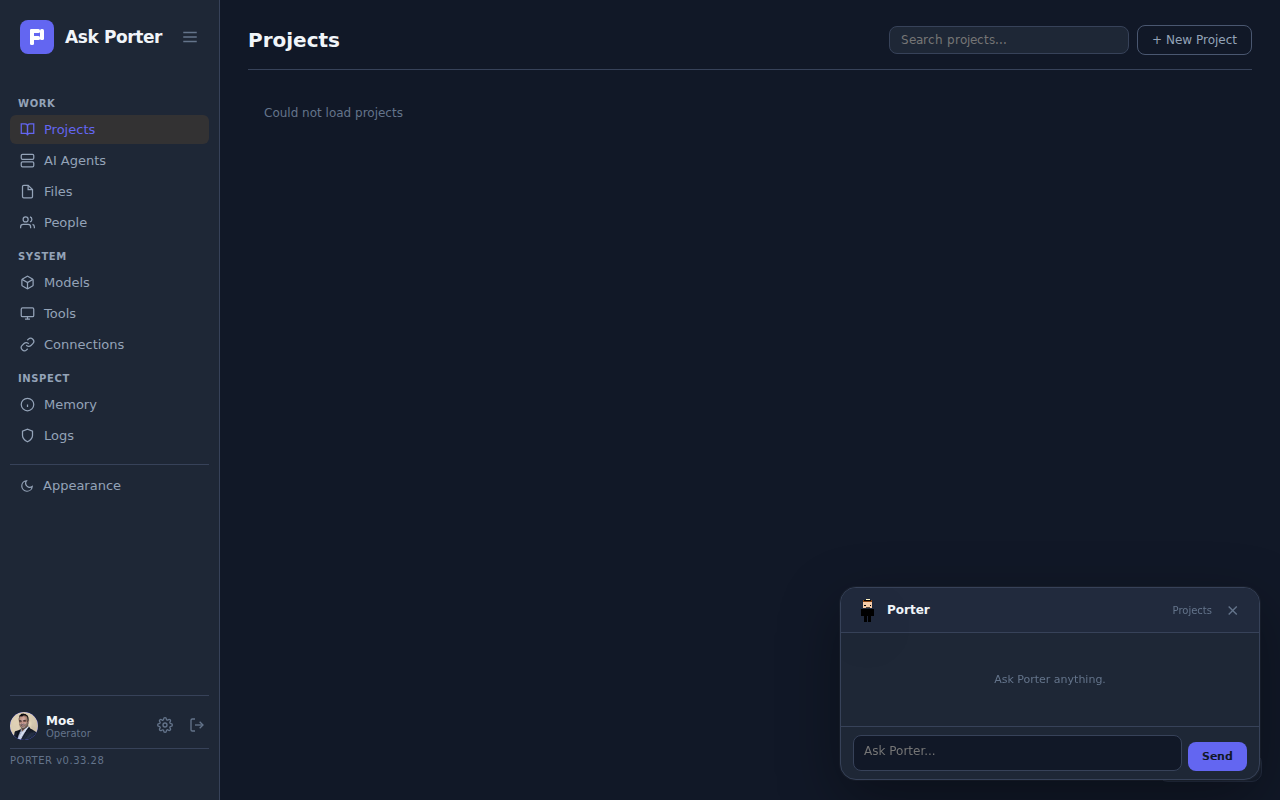
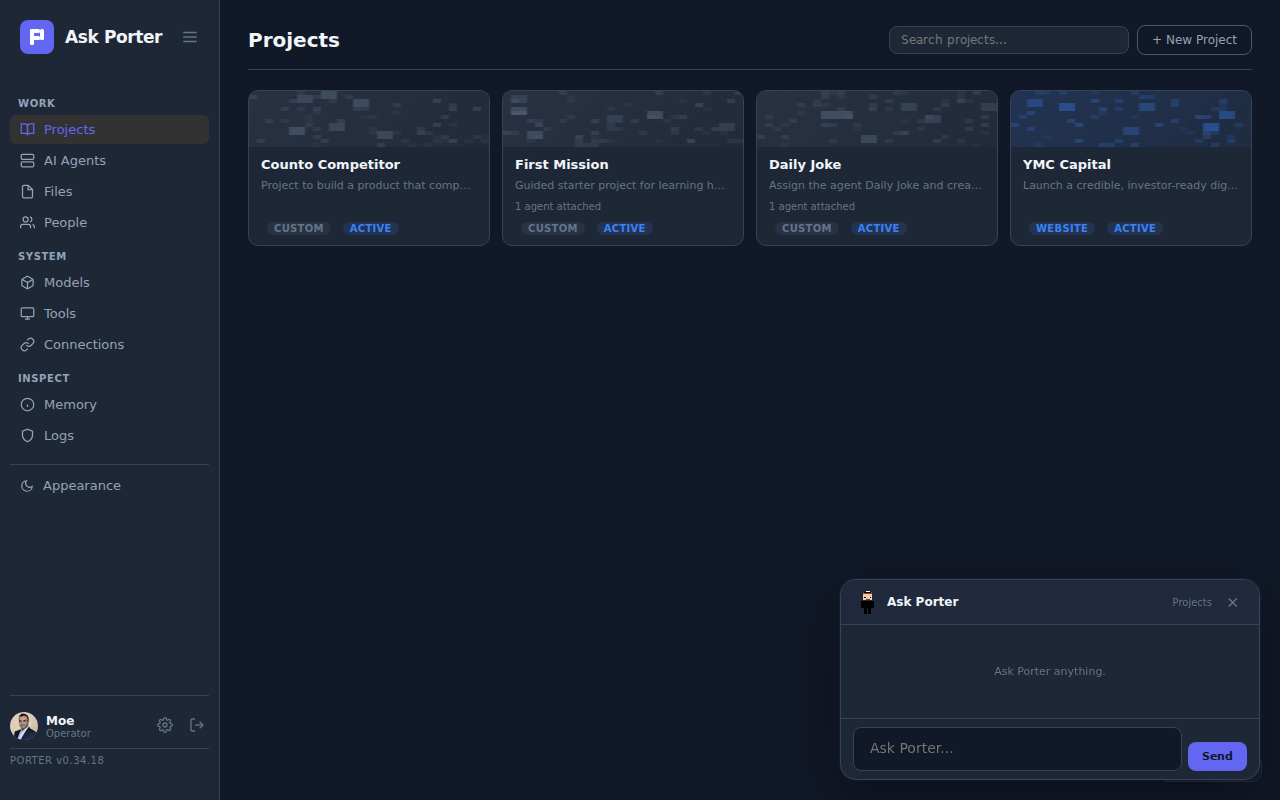
docs(03-01): complete lean system prompts plan - PERF-01 done
- Created 03-01-SUMMARY.md: token reduction 87%, all 35 Playwright tests pass
- STATE.md: progress updated to 86%, decision and metric recorded
- ROADMAP.md: Phase 3 progress updated (2 of 5 plans complete)
- REQUIREMENTS.md: PERF-01 marked complete

diff --git a/.planning/phases/03-route-migration/03-01-SUMMARY.md b/.planning/phases/03-route-migration/03-01-SUMMARY.md
@@ -1,0 +1,101 @@
+---
+phase: 03-route-migration
+plan: 01
+subsystem: system-prompt
+tags: [perf, system-prompt, dispatch, memory, agents]
+dependency_graph:
+  requires: []
+  provides: [_build_lean_identity, lean-system-prompts, PERF-01]
+  affects: [agent-dispatch, memory-injection, system-prompt-assembly]
+tech_stack:
+  added: []
+  patterns: [lean-identity-pattern, circuit-breaker-logging, on-demand-context-injection]
+key_files:
+  modified:
+    - porter.py
+decisions:
+  - "_build_lean_identity() is the sole system prompt builder — DB-only, no file I/O"
+  - "awareness_mode defaults to 'aware' (config JSON key) — no schema migration needed"
+  - "Memory injection remains separate: _mem_inject_for_dispatch() appended to message body"
+  - "_build_context_suffix() deprecated (not deleted) — marked # DEPRECATED Phase 3"
+  - "Identity trigger path (soul.strip() for explicit who-are-you queries) preserved"
+metrics:
+  duration: 7min
+  completed_date: "2026-03-20"
+  tasks_completed: 2
+  files_modified: 1
+---
+
+# Phase 03 Plan 01: Lean System Prompts (PERF-01) Summary
+
+**One-liner:** DB-only `_build_lean_identity()` replaces file-reading `_build_context_suffix()`, slimming system prompts from ~614 tokens avg to 90-103 tokens with 2K circuit breaker.
+
+## Tasks Completed
+
+| Task | Name | Commit | Files |
+|------|------|--------|-------|
+| 1 | Create _build_lean_identity() + update call sites | e44bdd1 | porter.py |
+| 2 | Verify token counts + Playwright regression | (verify-only) | /tmp/test_lean_identity.py, /tmp/test_prompt_audit.py |
+
+## What Was Built
+
+### _build_lean_identity(persona_id) [porter.py:2562]
+- Queries `personas` table: `SELECT name, role, config WHERE id=?`
+- Extracts `description` (falls back to `role`) and `awareness_mode` from config JSON
+- Produces a 3-part prompt: identity line + awareness block + guardrails
+- **Awareness modes:**
+  - `aware` (default): knows Porter, other agents, can suggest delegation
+  - `sandboxed`: focused assistant, handles only assigned domain
+- **Guardrails (always present):** Never fabricate, never claim done without verification, say when you don't know
+- **Circuit breaker:** if `_estimate_tokens(prompt) > 2000`, emits `mlog.emit("warn", "system", "prompt.circuit_breaker", ...)` and returns minimal fallback
+
+### Dispatch Path Refactor [porter.py:43441]
+- `_lean_identity = _build_lean_identity(persona_id)` — replaces `_build_context_suffix()`
+- Memory, prior work, and project context now assembled as separate on-demand context blocks
+- `_ctx_suffix` = `"\n\n".join([_mem_ctx, _prior_work, _proj_ctx])` — injected into message body, NOT system prompt
+- Squad roster removed from system prompt (Phase 3 decision: no squad concept in prompts)
+- Failure context removed from system prompt (was injected via _build_context_suffix)
+
+### System Prompt Preview [porter.py:46790]
+- `ctx_suffix = _build_lean_identity(pid)` — updated to use lean identity
+
+## Verification Results
+
+### Token Counts
+| Persona | Name | Before (est) | After (est) | Reduction |
+|---------|------|-------------|-------------|-----------|
+| porter-core | Porter | 702 tokens | 90 tokens | 87% |
+| 0f8ed627fdc7469f | Daily Joke | 527 tokens | 103 tokens | 80% |
+
+### Audit Results
+- No active calls to `_build_context_suffix()` in non-deprecated code paths
+- 2 call sites to `_build_lean_identity()`: dispatch (line 43442) + preview (line 46790)
+- No SOUL.md or RULES.md reads in prompt construction path
+
+### Playwright Regression
+- **35/35 tests passed** — no regressions introduced
+
+## Deviations from Plan
+
+### Auto-fixed Issues
+
+None — plan executed exactly as written.
+
+### Notes on Preserved Behaviors
+
+1. **SOUL.md identity trigger** (line 43432-43549): `soul = _read_persona_file(pdir / 'SOUL.md')` still reads the soul file per dispatch but ONLY injects it when users explicitly ask "who are you?" / "describe yourself" / etc. This is intentional — the soul file is not loaded into the system prompt blindly, only surfaced on explicit identity queries.
+
+2. **_build_context_suffix() kept (deprecated)**: Not deleted per plan — marked `# DEPRECATED Phase 3: replaced by _build_lean_identity()`. Squad roster, failure context, and full file reads remain inside the deprecated function body.
+
+3. **Memory injection preserved**: `_mem_inject_for_dispatch()` still runs per dispatch, injecting tiered memories (directives → concepts → episodes). It's appended as `_mem_ctx` in `_ctx_suffix`, added to the message body — not the system prompt.
+
+## Self-Check
+
+### Files Exist
+- [x] `/home/lobster/documents/porter/porter.py` — modified, contains `def _build_lean_identity`
+- [x] `/home/lobster/documents/porter/.planning/phases/03-route-migration/03-01-SUMMARY.md` — this file
+
+### Commits Exist
+- [x] `e44bdd1` — feat(03-01): add _build_lean_identity() - slim system prompts to 200-300 tokens
+
+## Self-Check: PASSED

diff --git a/.planning/STATE.md b/.planning/STATE.md
@@ -3,13 +3,13 @@ gsd_state_version: 1.0
 milestone: v1.0
 milestone_name: milestone
 status: unknown
-stopped_at: Completed 03-02-PLAN.md
-last_updated: "2026-03-20T19:38:24.951Z"
+stopped_at: Completed 03-route-migration-01-PLAN.md
+last_updated: "2026-03-20T19:42:25.977Z"
 progress:
   total_phases: 7
   completed_phases: 2
   total_plans: 22
-  completed_plans: 18
+  completed_plans: 19
 ---
 
 # Project State
@@ -64,6 +64,7 @@ Plan: 1 of 5
 | Phase 02-memory-v2 P06 | 3min | 1 tasks | 1 files |
 | Phase 02-memory-v2 P07 | 10min | 2 tasks | 1 files |
 | Phase 03-route-migration P02 | 4min | 2 tasks | 7 files |
+| Phase 03-route-migration P01 | 7min | 2 tasks | 1 files |
 
 ## Accumulated Context
 
@@ -125,6 +126,7 @@ Recent decisions affecting current work:
 - [Phase 03-route-migration]: requireAuth is a fastify.decorate() method — routes opt in via preHandler array, not a global enforcer
 - [Phase 03-route-migration]: v1Routes registered before legacy routes in index.ts — v1 takes priority over proxy fallback to porter.py
 - [Phase 03-route-migration]: Legacy auth.ts kept alongside v1/auth.ts — backward compat with porter.py session handling
+- [Phase 03-route-migration]: _build_lean_identity() is the sole system prompt builder — DB-only, no file I/O; awareness_mode defaults to 'aware' from config JSON; memory injection moves to message body via on-demand context; _build_context_suffix() deprecated not deleted
 
 ### Pending Todos
 
@@ -139,6 +141,6 @@ None yet.
 
 ## Session Continuity
 
-Last session: 2026-03-20T19:38:24.949Z
-Stopped at: Completed 03-02-PLAN.md
+Last session: 2026-03-20T19:42:25.974Z
+Stopped at: Completed 03-route-migration-01-PLAN.md
 Resume file: None

diff --git a/.planning/REQUIREMENTS.md b/.planning/REQUIREMENTS.md
@@ -52,7 +52,7 @@ Requirements for this milestone. Each maps to roadmap phases.
 
 ### Performance
 
-- [ ] **PERF-01**: System prompt audit — cap interactive prompts at 2K tokens, eliminate bloat causing slowness
+- [x] **PERF-01**: System prompt audit — cap interactive prompts at 2K tokens, eliminate bloat causing slowness
 - [x] **PERF-02**: Core route migration to Fastify (auth, projects, agents) via strangler fig proxy
 - [ ] **PERF-03**: SSE real-time hub replacing polling with server-sent events for live updates
 
@@ -103,7 +103,7 @@ Deferred to future milestone. Tracked but not in current roadmap.
 | MEM-02 | Phase 2 | Complete |
 | MEM-03 | Phase 2 | Complete |
 | MEM-04 | Phase 2 | Complete |
-| PERF-01 | Phase 3 | Pending |
+| PERF-01 | Phase 3 | Complete |
 | PERF-02 | Phase 3 | Complete |
 | AGNT-01 | Phase 4 | Pending |
 | AGNT-02 | Phase 4 | Pending |

diff --git a/.planning/ROADMAP.md b/.planning/ROADMAP.md
@@ -184,7 +184,7 @@ Phases execute in numeric order: 1 → 2 → 3 → 4 → 5 → 6 → 7
 |-------|----------------|--------|-----------|
 | 1. Foundation | 9/9 | Complete    | 2026-03-20 |
 | 2. Memory V2 | 8/8 | Complete   | 2026-03-20 |
-| 3. Route Migration | 1/5 | In Progress|  |
+| 3. Route Migration | 2/5 | In Progress|  |
 | 4. Agent Autonomy | 0/6 | Not started | - |
 | 5. Guided Project Wizard | 0/7 | Not started | - |
 | 6. Real-Time and Transparency | 0/5 | Not started | - |